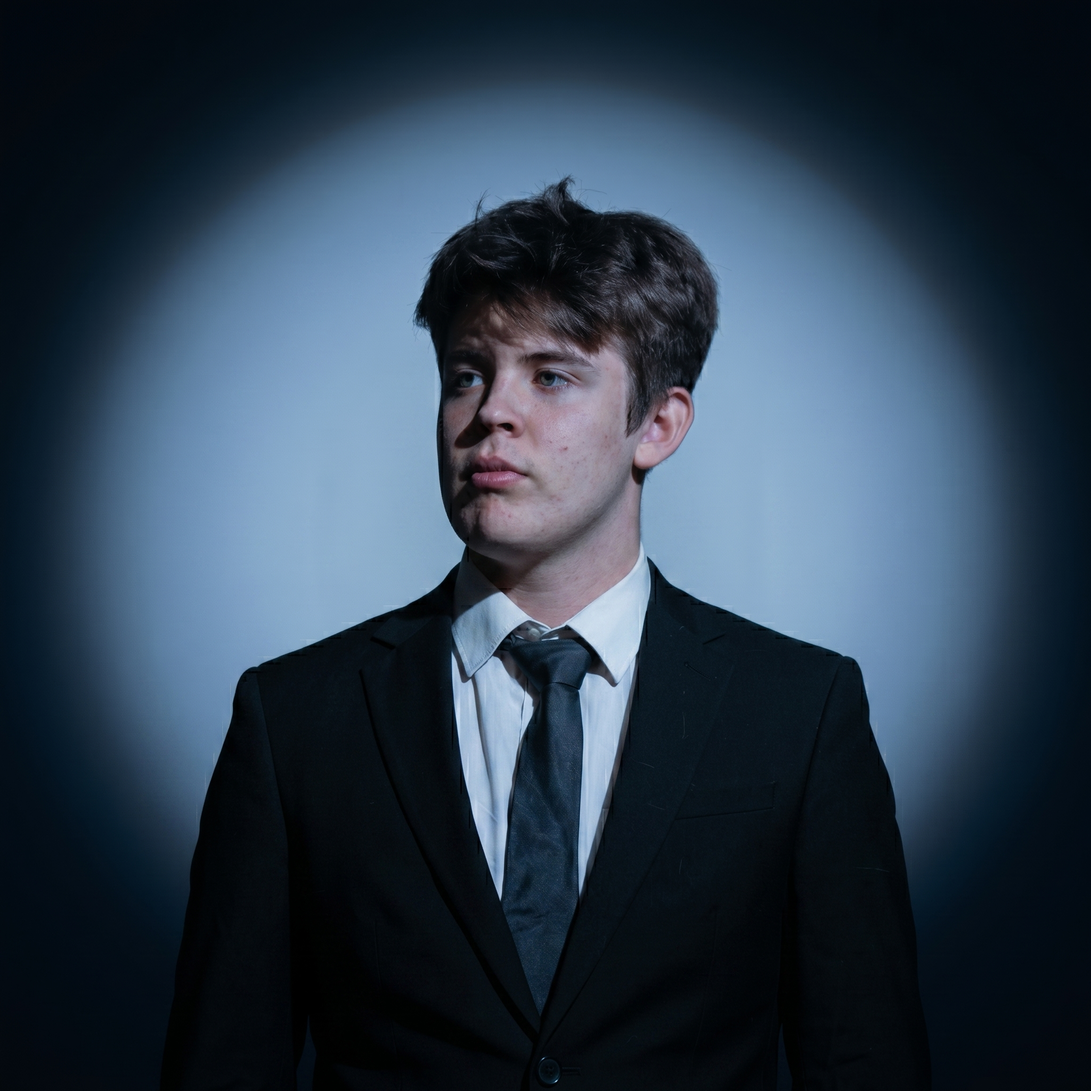
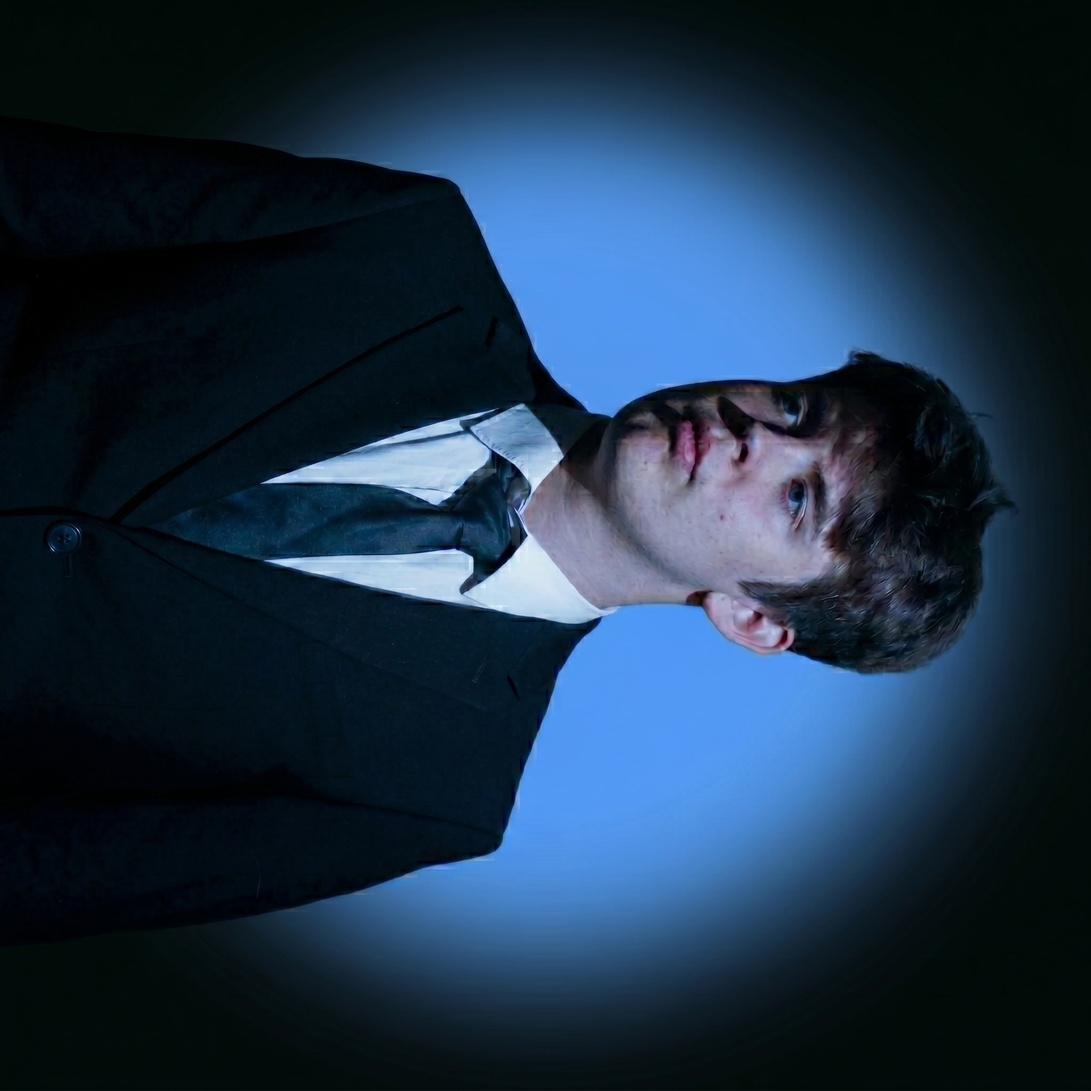
chore: refresh Béla team photo + cache-bust
New Béla.png (1.53 MB) from the latest nano banana run. HTML src
query bumped from ?v=4 to ?v=5 so nginx's immutable 1y cache
delivers the fresh image.

diff --git a/index.html b/index.html
@@ -1131,7 +1131,7 @@
       <div class="reveal rc team-card h-full flex flex-col overflow-hidden">
         <!-- Photo with glow ring -->
         <div class="w-full aspect-square relative overflow-hidden" style="background:radial-gradient(circle at 50% 60%,rgba(96,165,250,0.12),transparent 70%),#0a0a0a;">
-          <img src="assets/team/B%C3%A9la.png?v=4" alt="Béla Junker — Co-Founder Development bei BJL Studios" class="team-photo team-photo--upright" loading="lazy" decoding="async">
+          <img src="assets/team/B%C3%A9la.png?v=5" alt="Béla Junker — Co-Founder Development bei BJL Studios" class="team-photo team-photo--upright" loading="lazy" decoding="async">
           <div class="glow-ring absolute inset-0 rounded-full m-8 border border-accent/20 pointer-events-none" style="box-shadow:0 0 30px rgba(96,165,250,0.15);"></div>
         </div>
         <div class="p-6 flex flex-col flex-1">
